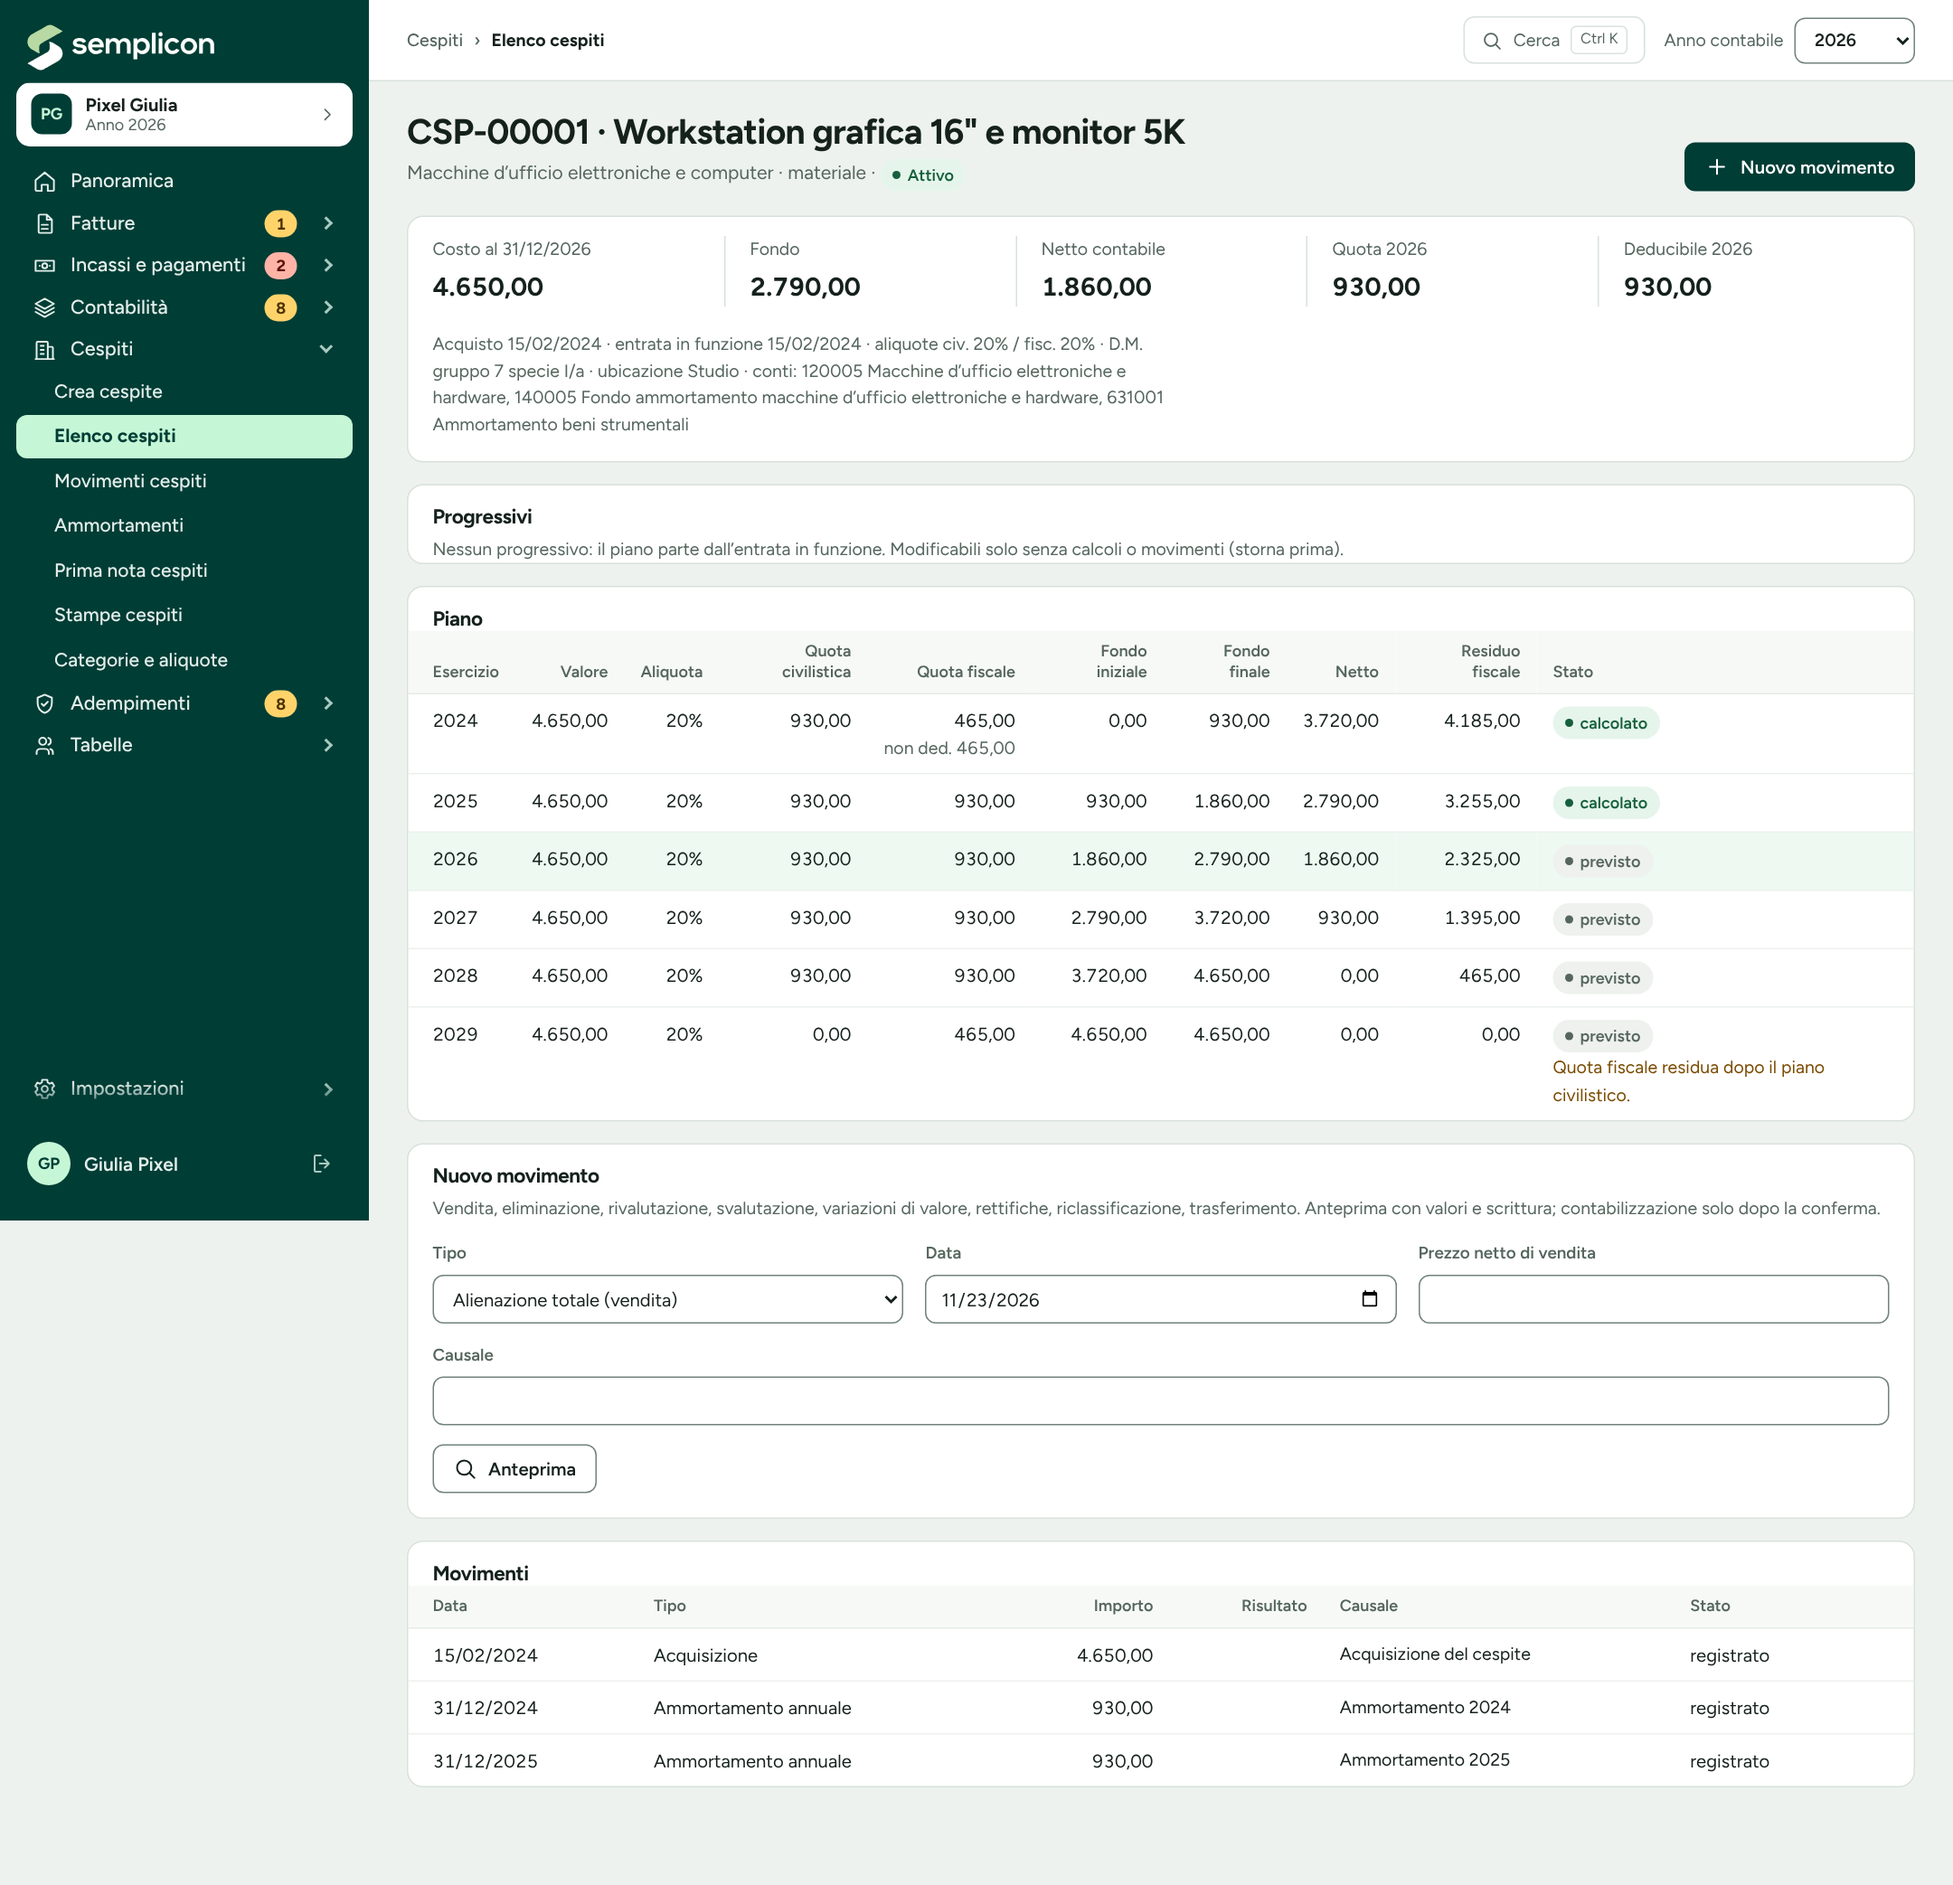
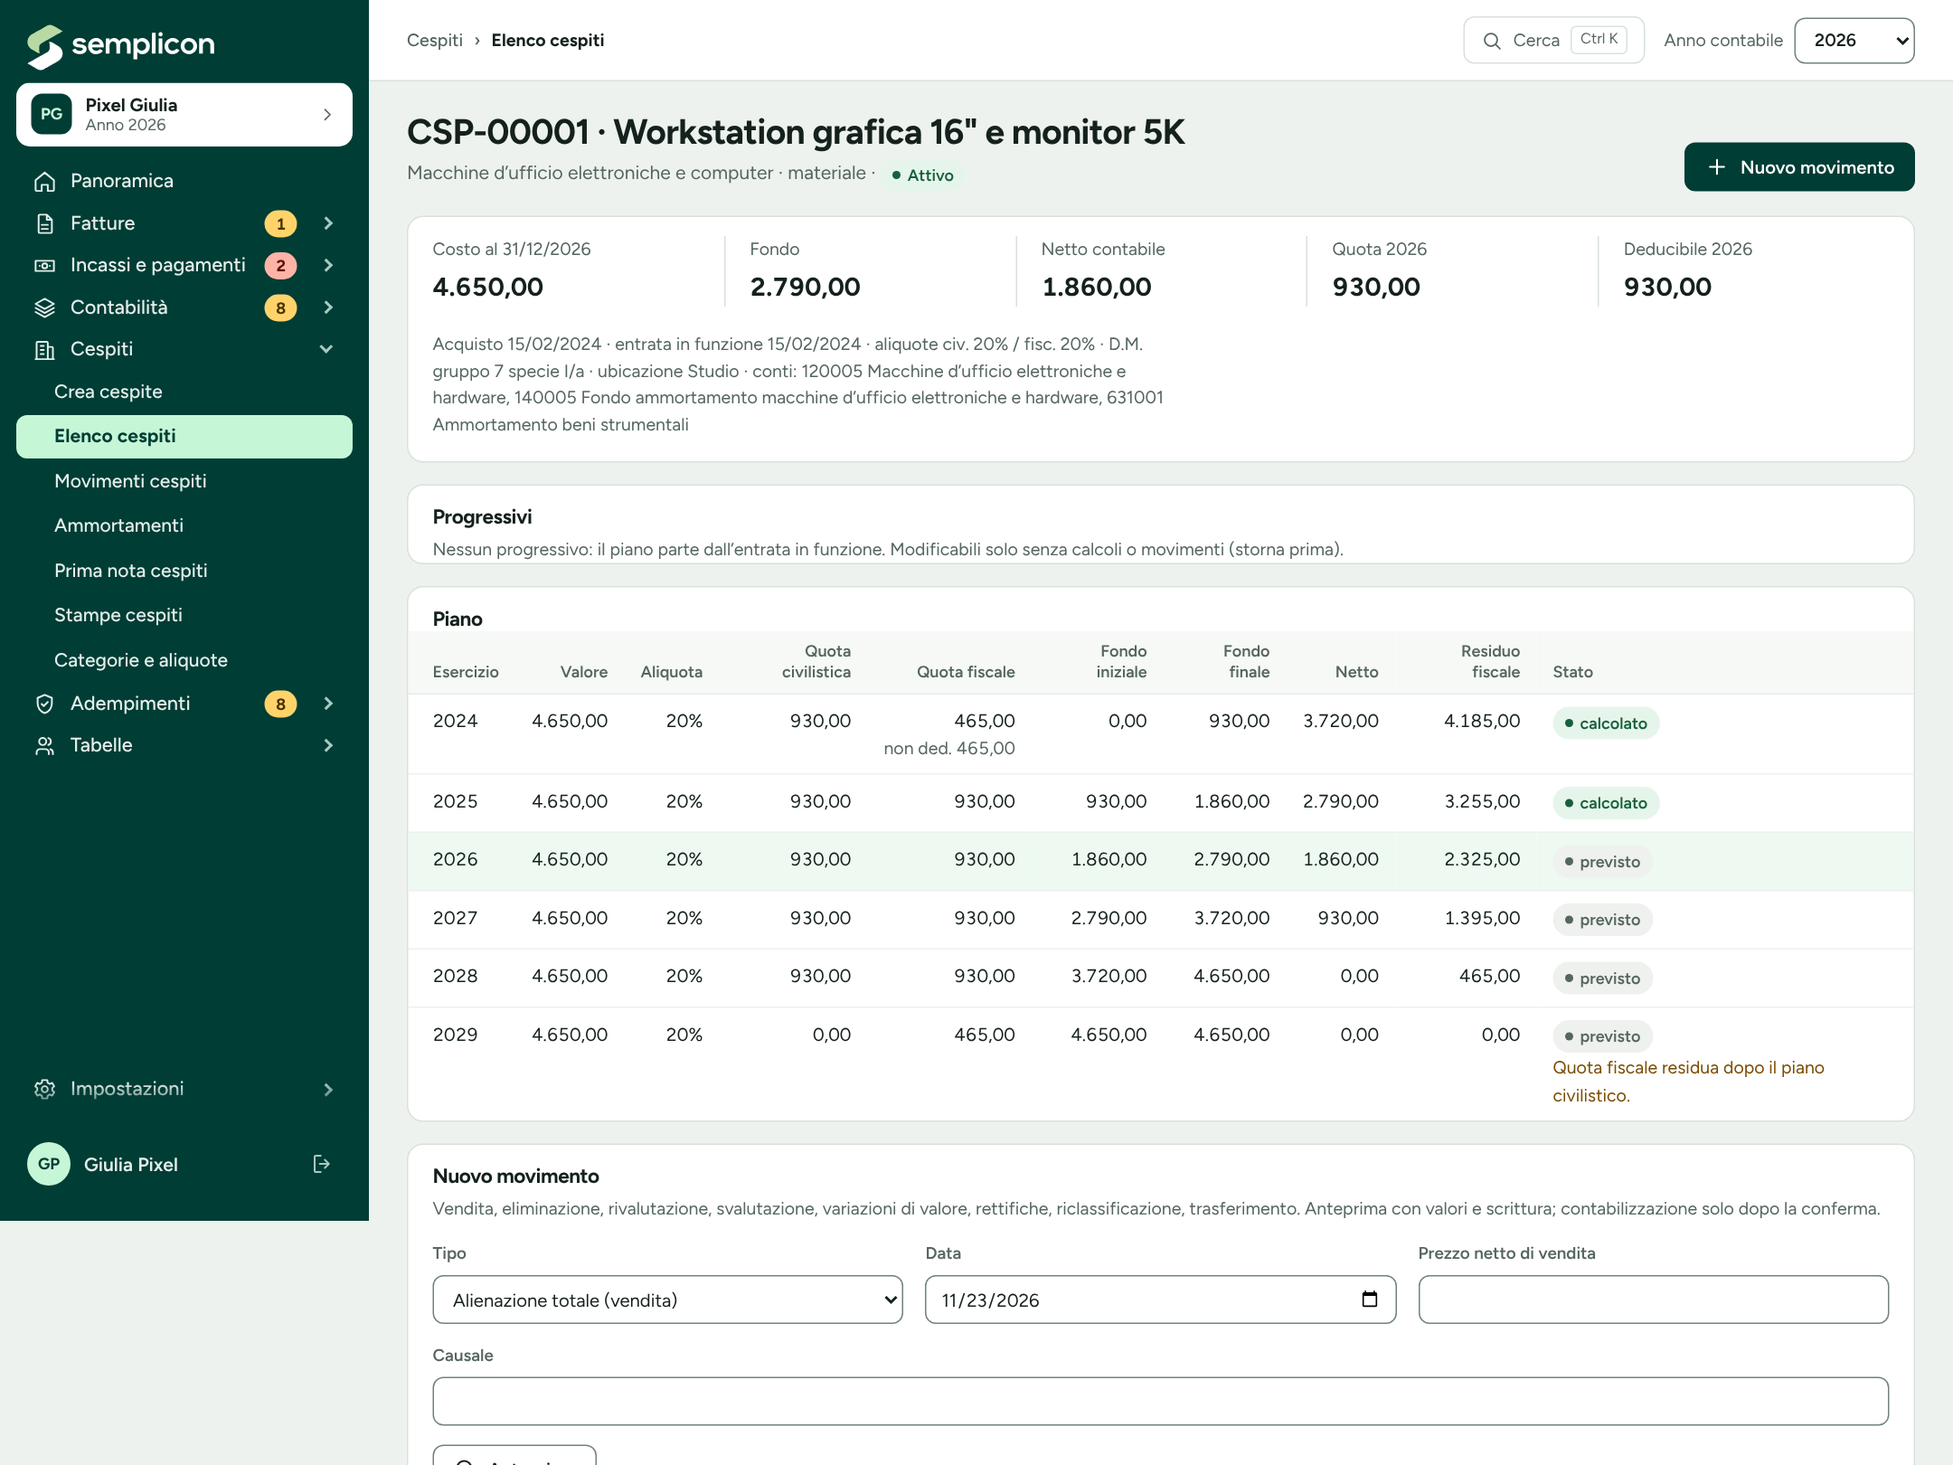
docs: accorcia le 16 schermate desktop più lunghe

diff --git a/docs/screenshots/INDICE.md b/docs/screenshots/INDICE.md
@@ -1,6 +1,6 @@
 # Semplicon – Schermate di esempio (azienda «Pixel Giulia», anno 2026)
 
-Schermate della demo (`demo/semplicon-demo.html`) con i dati di esempio di Giulia Pixel (professionista, regime forfettario con IVA). Ogni immagine mostra una pagina completa.
+Schermate della demo (`demo/semplicon-demo.html`) con i dati di esempio di Giulia Pixel (professionista, regime forfettario con IVA). Le schermate desktop particolarmente lunghe sono ritagliate nella parte superiore per facilitarne la lettura; le viste per smartphone mantengono il formato originale.
 
 | N. | Schermata | Descrizione |
 |---|---|---|

diff --git a/docs/SCHERMATE.md b/docs/SCHERMATE.md
@@ -2,6 +2,8 @@
 
 Le 51 schermate mostrano la demo HTML con l’azienda di esempio **Pixel Giulia**, anno 2026. I dati sono sintetici e alcune funzioni della demo sono simulate o semplificate. Consulta i [limiti della beta](BETA.md).
 
+Le schermate desktop particolarmente lunghe sono ritagliate nella parte superiore per facilitarne la lettura. Le viste per smartphone mantengono il formato originale.
+
 [Indice tabellare completo](screenshots/INDICE.md) · [Torna al README](../README.md)
 
 <details>
